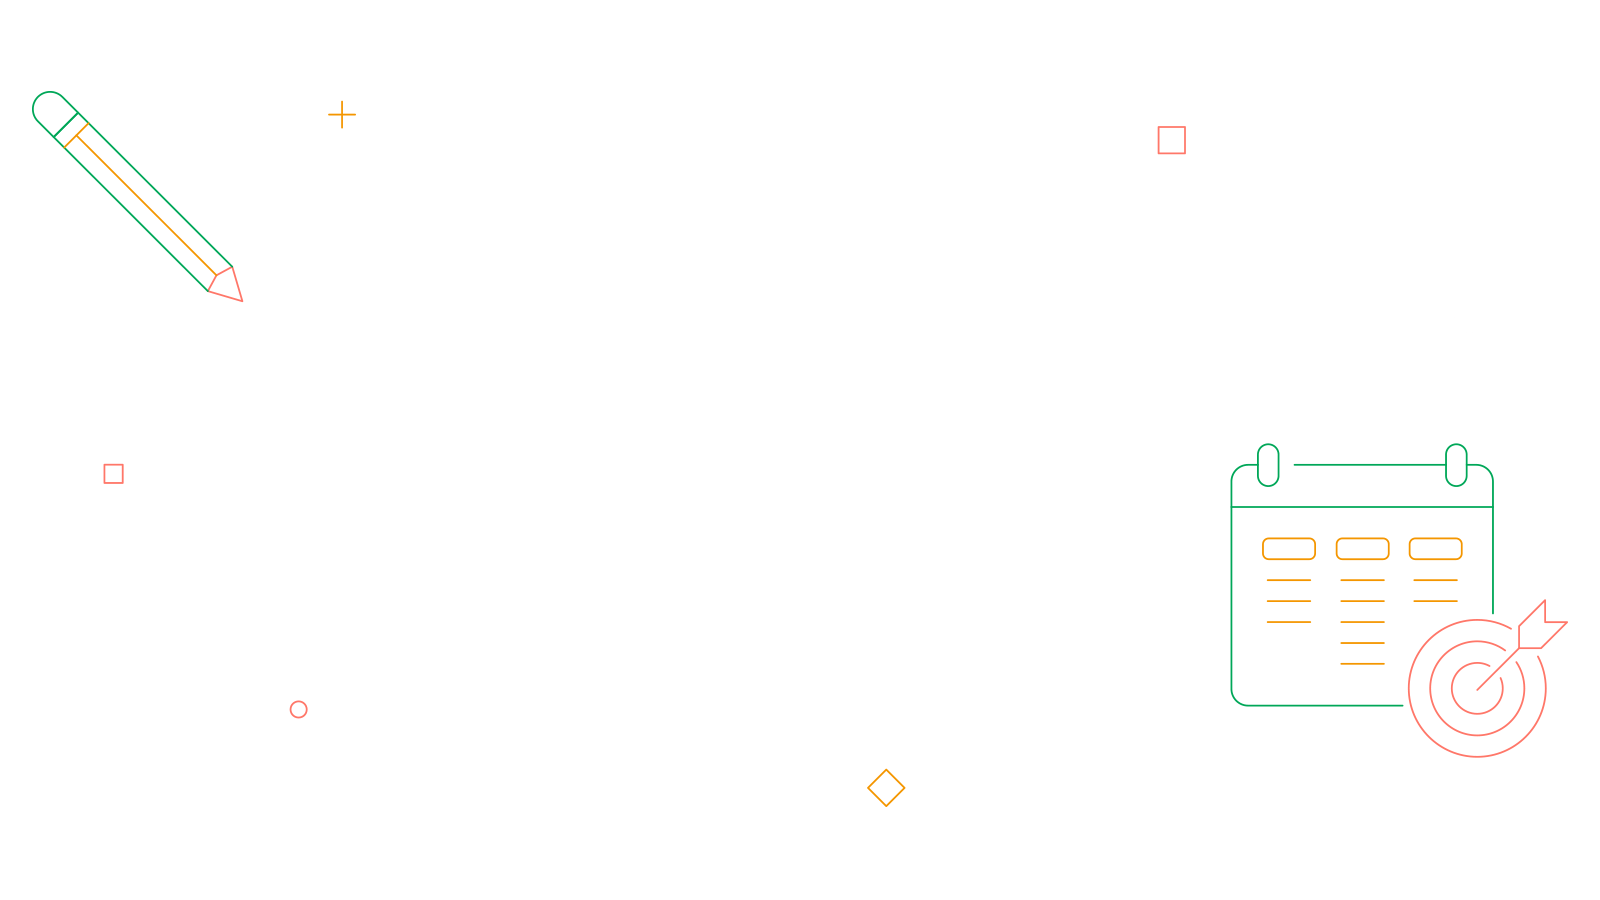
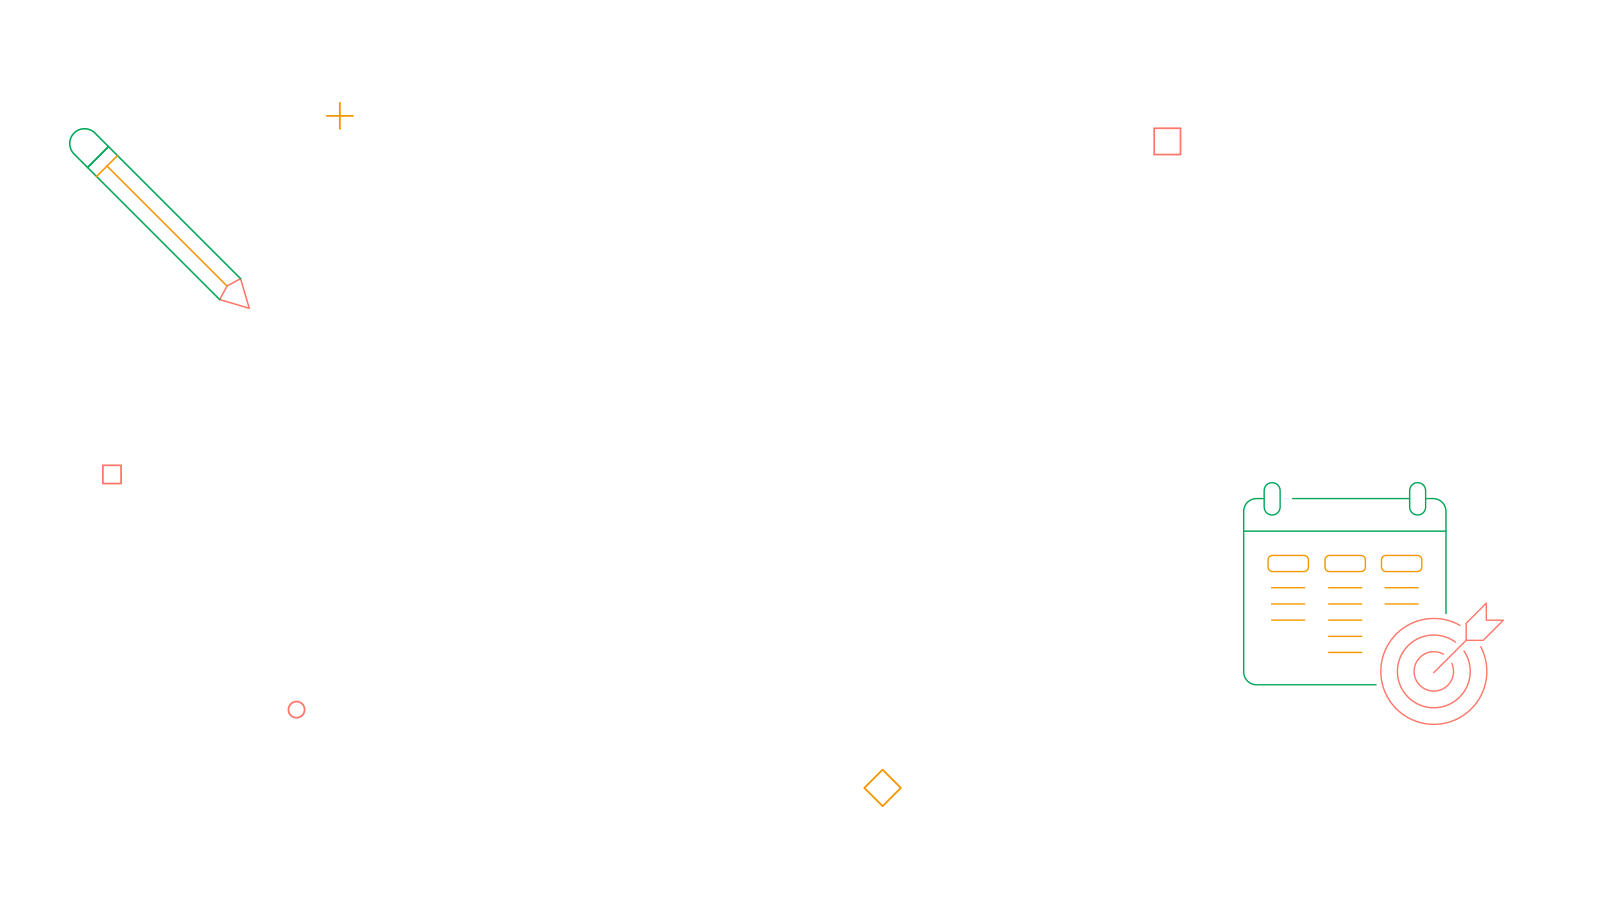
update v2

diff --git a/idn/preview/manulife-v2/css/custom.css b/idn/preview/manulife-v2/css/custom.css
@@ -54,6 +54,7 @@ a:focus {
     color: white;
     font-size: 28px;
     font-family: 'ManulifeJHSans-Regular', sans-serif;
+    margin-bottom: 40px;
 }
 #homepage2 .text-box a {
     color: white;
@@ -61,6 +62,9 @@ a:focus {
     font-family: 'ManulifeJHSans-Regular', sans-serif;
     padding: 10px 20px;
     font-size: 22px;
+}
+#homepage2 .text-box a:hover {
+    text-decoration: none;
 }
 #page1 {
     background-image: url(../images/page1-bg.png);
@@ -81,9 +85,9 @@ a:focus {
     background-repeat: no-repeat;
 }
 #page4 {
-    background-image: url(../images/page4-bg.png);
+    background-image: url(../images/page4-atas-bg.png), url(../images/page4-kanan-bg.png), url(../images/page4-kiri-bg.png);
     background-size: cover;
-    background-position: center;
+    background-position: top center, right, left;
     background-repeat: no-repeat;
 }
 #page5 {
@@ -106,7 +110,7 @@ a:focus {
     font-size: 32px;
 }
 .question {
-    max-width: 90%;
+    max-width: 75%;
     padding: 20px 0;
     position: relative;
     left: 0;
@@ -183,7 +187,7 @@ a:focus {
     display: none;
 }
 a.prev-btn img, a.next-btn img {
-    max-width: 30px;
+    max-width: 35px;
     cursor: pointer;
     margin: 0 10px;
 }
@@ -209,24 +213,10 @@ a.prev-btn:hover, a.next-btn:hover {
     display: block;
     z-index: 2;
 }
-a.scroll-down {
-    background-color: #f49600;
-    color: white;
-    padding: 18px 25px;
-    max-width: 200px;
-    -webkit-transition: all .5s ease-in .3s;
-    transition: all .5s ease-in .3s;
-    font-family: 'ManulifeJHSans-Regular', sans-serif;
-    text-align: center;
-    letter-spacing: 1px;
+a.scroll-down img {
+    max-width: 120px;
 }
-a.scroll-down:hover {
-    text-decoration: none;
-    background-color: #ffac33;
-    -webkit-transition: all .5s ease-in .3s;
-    transition: all .5s ease-in .3s;
-    color: white;
-}
+
 .scroll-down span {
     color: #205731;
     
@@ -495,7 +485,7 @@ a.scroll-down:hover {
     background-image: url(../images/cover/9.png);
     background-size: contain;
     background-repeat: no-repeat;
-    background-position: center center;
+    background-position: bottom center;
     height: 100%;
     width: 100%;
 }
@@ -1025,7 +1015,7 @@ Menu
     .answ {
         width: 250px;
         height: 60px;
-        margin: 5px;
+        margin: 12px 0;
         padding: 15px;
     }
     .answ h4 {
@@ -1058,10 +1048,17 @@ Menu
         background-position: center;
         background-repeat: no-repeat;
     }
-    a.scroll-down {
-        font-size: 14px;
+    #homepage2 .text-box a {
+        font-size: 16px;
+    }
+    #homepage2 .text-box p {
+        margin-bottom: 50px;
+    }
+    .scroll-down {
+        bottom: 50px;
+    }
+    a.scroll-down img {
         max-width: 100px;
-        padding: 10px;
     }
     #pp-nav {
         display: none;
@@ -1118,8 +1115,8 @@ Menu
         max-width: 120px;
     }
     .np-box {
-        bottom: 25px;
-        right: 25px;
+        bottom: 20px;
+        right: 20px;
     }
     .left-side a.selengkapnya-btn {
         font-size: 15px;

diff --git a/idn/preview/manulife-v2/index.html b/idn/preview/manulife-v2/index.html
@@ -79,7 +79,7 @@
                         <div class="para8"></div>
                         <div class="para9"></div>
                     </div>
-                    <a href="#homepage2" class="scroll-down">MULAI</a>
+                    <a href="#homepage2" class="scroll-down"><img src="images/icon/scroll.png"></a>
                 </div>
             </div>
             
@@ -91,14 +91,16 @@
                         <div class="col-md-12 text-center">
                             <div class="text-box">
                                 <p>Pembagian generasi manusia memang sudah familiar, mulai dari generasi tradisionalis hingga generasi alpha. Tapi kalau diibaratkan sebagai karakter <span class="fital">millennial</span>, kamu akan seperti apa ya?</p>
-                                
+                                <a href="quiz.html">MULAI</a>
                             </div>
                         </div>   
                     </div>
                 </div>
+<!--
                 <div class="np-box" style="display: block!important">
                     <a href="quiz.html" class="next-btn" data-toggle="popover" data-placement="top" data-trigger="hover" data-content="Start Quiz"><img src="images/icon/next.png"></a>
                 </div>
+-->
             </div>
         </div>
         

diff --git a/idn/preview/manulife-v2/quiz.html b/idn/preview/manulife-v2/quiz.html
@@ -71,7 +71,7 @@
                         <div class="col-md-12">
                             <div class="answ-box">
                                 <label class="answ">
-                                    <h4>Nonton konser favorit di luar negeri</h4>
+                                    <h4>Nonton konser favorit di <br>luar negeri</h4>
                                     <input type="radio" name="Q1" value="A1" class="radio" onclick="showNPB();">
                                 </label>
                             
